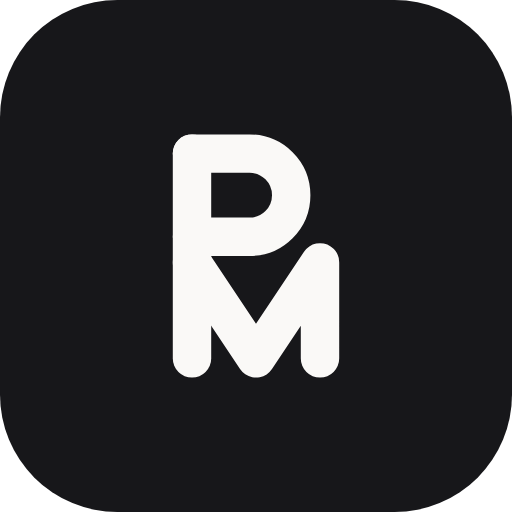
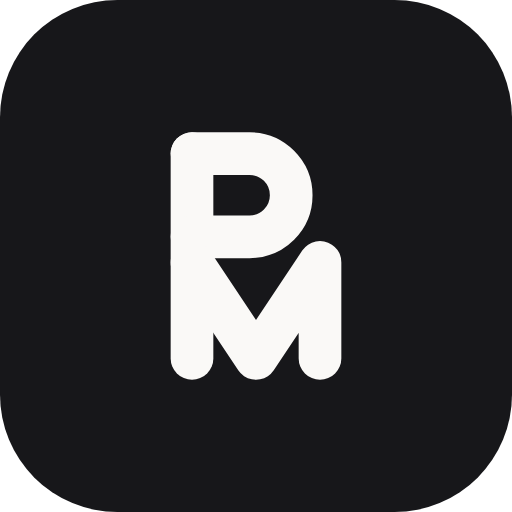
content(proof): lead with inventory scale and drop the accented resume label
Replace the weaker POS/monitoring metrics with stock volume figures, retitle
the fourth WhyMe point around messy real workflows, and expand the persona
brief with inventory system context.

Also: "Download resume" without the accent (e2e selector updated to match),
a Monogram boxed stroke of 20/3 so it reads at the same weight as unboxed,
refreshed brand icon exports, and tightened MemorizeMate/services blurbs.

diff --git a/src/sections/WhyMe.tsx b/src/sections/WhyMe.tsx
@@ -1,4 +1,4 @@
-import { Rocket, ServerCog, MessageSquare, Cpu } from 'lucide-react';
+import { Rocket, ServerCog, MessageSquare, Workflow } from 'lucide-react';
 import styles from './WhyMe.module.css';
 
 const POINTS = [
@@ -18,9 +18,9 @@ const POINTS = [
     body: 'You talk to the person writing the code. No account managers, no telephone game, no lost context.',
   },
   {
-    Icon: Cpu,
-    title: 'Software + hardware',
-    body: 'A Computer Engineering background means RFID, barcode, biometrics, and thermal printers are not scary edge cases.',
+    Icon: Workflow,
+    title: 'Built for messy real workflows',
+    body: 'Stock ledgers, approvals, and audit trails that survive contact with how a business actually operates, not a happy-path demo.',
   },
 ];
 

diff --git a/src/sections/Proof.tsx b/src/sections/Proof.tsx
@@ -5,10 +5,10 @@ const OSS_CONTRIBUTIONS_URL =
   'https://github.com/TheOdinProject/curriculum/pulls?q=is%3Apr+is%3Amerged+author%3APandesalPanpan';
 
 const METRICS = [
+  { value: '40M+', label: 'units of stock tracked through one inventory system' },
+  { value: '2M+', label: 'units moved per day across 24 graded product lines' },
   { value: '300–500', label: 'daily transactions handled by a POS I built' },
-  { value: '1,000+', label: 'items managed in a live inventory system' },
   { value: '30%', label: 'faster checkout after Bluetooth print integration' },
-  { value: '500+', label: 'daily transactions monitored in real time' },
 ];
 
 export function Proof() {

diff --git a/src/data/projects.ts b/src/data/projects.ts
@@ -4,7 +4,7 @@ export const projects: Project[] = [
   {
     id: 'memorizemate',
     title: 'MemorizeMate',
-    blurb: 'Offline-first spaced-repetition flashcards (PWA).',
+    blurb: 'Offline-first spaced-repetition flashcards (PWA) that keep working with no signal, then sync when you are back.',
     description:
       'A polished PWA flashcard app using the FSRS algorithm. Offline-first via IndexedDB, smart CSV/cloze import, GitHub-style review heatmap, and an ink-and-paper design system with light/dark/auto themes.',
     tech: ['React 19', 'TypeScript', 'Vite', 'Zustand', 'IndexedDB', 'ts-fsrs', 'Framer Motion', 'PWA'],

diff --git a/e2e/features.spec.ts b/e2e/features.spec.ts
@@ -83,7 +83,7 @@ test('FindTheNumber is the third project (after Threaded) and jollibee-clone is 
 
 test('resume download link points to the right file and CV is gone', async ({ page }) => {
   await page.goto('/');
-  await expect(page.getByRole('link', { name: /Download résumé/i })).toHaveAttribute('href', '/resume.pdf');
+  await expect(page.getByRole('link', { name: /Download resume/i })).toHaveAttribute('href', '/resume.pdf');
   await expect(page.getByRole('link', { name: /Download CV/i })).toHaveCount(0);
 });
 

diff --git a/src/sections/Hero.tsx b/src/sections/Hero.tsx
@@ -13,8 +13,8 @@ const CONTACT_EMAIL = 'mailto:petermarticio@gmail.com?subject=Let%27s%20build%20
 /** Quick trust signals shown under the hero copy. */
 const STATS = [
   { value: '4', label: 'apps in production' },
-  { value: '1,000+', label: 'items managed in systems I built' },
-  { value: '30%', label: 'faster checkout shipped for a client' },
+  { value: '40M+', label: 'units of stock tracked in systems I built' },
+  { value: '100%', label: 'of my apps ship with tests and CI' },
 ];
 
 export function Hero() {

diff --git a/src/components/Monogram.tsx b/src/components/Monogram.tsx
@@ -35,7 +35,7 @@ export function Monogram({ size = 32, boxed = false }: { size?: number; boxed?: 
         stroke={boxed ? 'var(--on-ink)' : 'currentColor'}
         // Pre-divided by the boxed scale, so the stroke reads the same weight
         // in both variants rather than thinning to 2.4.
-        strokeWidth={boxed ? 6 : 4}
+        strokeWidth={boxed ? 20 / 3 : 4}
         strokeLinecap="round"
         strokeLinejoin="round"
         // Shrink the glyph to sit inside the container with even padding.

diff --git a/src/data/services.ts b/src/data/services.ts
@@ -37,7 +37,7 @@ export const services: Service[] = [
     no: '03',
     title: 'Deploy, self-host & maintain',
     blurb:
-      "I don't just hand off a repo. I ship it and keep it running, so you own your stack instead of renting someone else's.",
+      "I don't just hand off a repo. I ship it and keep it running on infrastructure you control, with no vendor lock-in.",
     bullets: [
       'Dockerised deploys on your own VPS',
       'Nginx, CI/CD & zero-downtime releases',

diff --git a/src/sections/FinalCta.tsx b/src/sections/FinalCta.tsx
@@ -17,7 +17,7 @@ export function FinalCta() {
         </p>
         <div className={styles.actions}>
           <Button as="a" href={CONTACT_EMAIL} variant="primary">Hire me</Button>
-          <Button as="a" href="/resume.pdf" variant="secondary" download>Download résumé</Button>
+          <Button as="a" href="/resume.pdf" variant="secondary" download>Download resume</Button>
         </div>
       </div>
     </section>
